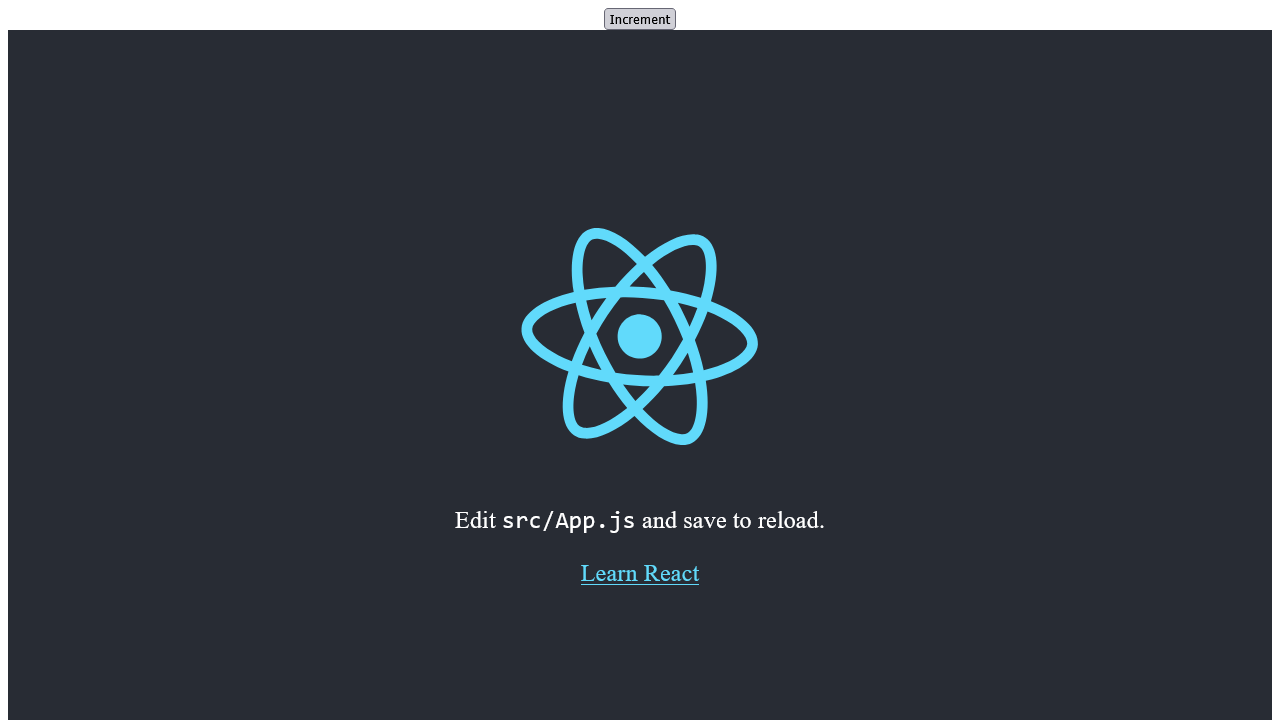
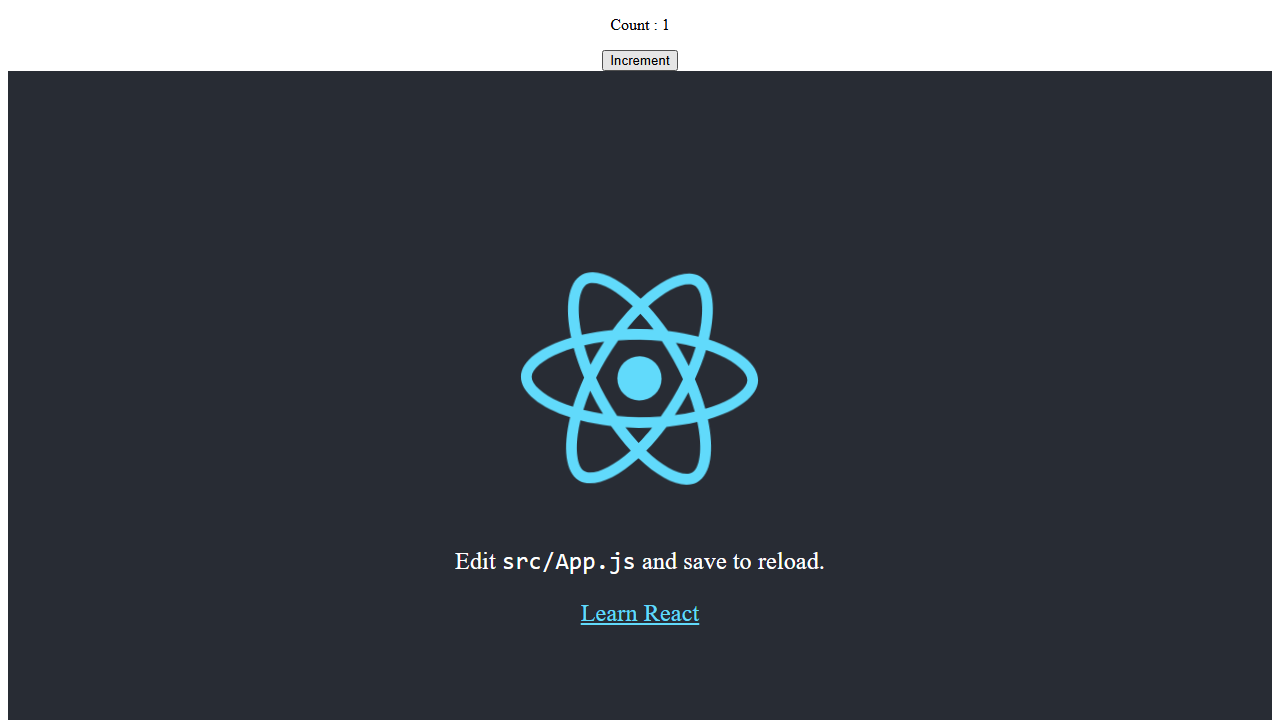
details about playwright

diff --git a/testing_demo/src/counter.js b/testing_demo/src/counter.js
@@ -4,8 +4,8 @@ export default function Counter() {
 
     return(
         <div>
-            <p  className="text-for-small-screen">Count :  <span   data-testid="count"> {count} </span></p>
-            <button onClick={() => setCount(count+1)}>Increment</button>
+            <p  className="text-for-small-screen">Count :  <span   data-testid="count">{count}</span></p>
+            <button data-testid="inc-btn"  onClick={() => setCount(count+1)}>Increment</button>
         </div>
     );
 }

diff --git a/testing_demo/src/App.css b/testing_demo/src/App.css
@@ -38,7 +38,7 @@
 }
 
 
-.text-for-small-screen {
+/* .text-for-small-screen {
   display: block;
 }
 
@@ -46,4 +46,4 @@
   .text-for-small-screen {
     display: none;
   }
-}
+} */

diff --git a/testing_demo/README.md b/testing_demo/README.md
@@ -1,3 +1,142 @@
+ (Playwright) :- (https://playwright.dev/docs/getting-started-vscode)) ([Playwright][1])
+
+---
+
+# 📘 Playwright & VS Code Extension — README
+
+## 🚀 What is **Playwright**?
+
+Playwright is a powerful open-source **end-to-end testing** framework created by **Microsoft**. It allows developers to automate browsers, write reliable tests, and run them across:
+
+* 🧪 Chromium (Chrome, Edge)
+* 🦊 Firefox
+* 🦁 WebKit (Safari)
+
+Playwright supports modern web testing features such as automatic waiting, network interception, multiple browser contexts, and cross-browser testing in a single unified API. It’s commonly used to write tests in **JavaScript/TypeScript**, but also supports **Python, C#, and Java**. ([Wikipedia][2])
+
+Playwright includes:
+
+* **@playwright/test** — a built-in test runner with rich test structure and assertions.
+* **CodeGen** — auto-generates tests by recording your actions.
+* **Trace Viewer** — visually debug and replay tests step-by-step.
+
+---
+
+## 💡 Why Use Playwright?
+
+✔ Tests run across multiple browsers with consistent APIs
+✔ Powerful debugging tools and trace viewer
+✔ You can generate tests automatically
+✔ Works with CI/CD workflows (GitHub Actions, etc.)
+✔ Built-in test runner with parallelism and retries
+
+---
+
+## 🛠 Playwright (**VS** Code Extension)
+
+The **Playwright Test for VS Code** extension lets you bring Playwright functionality *directly into Visual Studio Code*. ‹It enhances the developer experience by allowing you to run, debug, generate, and explore tests inside the editor.› ([Visual Studio Marketplace][3])
+
+### 📦 Key Features
+
+* ▶ **Run tests with a single click** — Green play icons next to each test. ([Visual Studio Marketplace][3])
+* 🔄 **Watch mode** — Re-runs tests on save. ([Visual Studio Marketplace][3])
+* 🐞 **Debugging** — Set breakpoints and step through tests in the IDE. ([Visual Studio Marketplace][3])
+* 🔍 **Trace Viewer integration** — Inspect execution timelines, DOM snapshots, and network events. ([Visual Studio Marketplace][3])
+* 🧪 **Project selection** — Run tests per browser or configuration. ([DEV Community][4])
+* ✍ **Test generation** — Record interactions and auto-generate test code. ([Playwright][5])
+* 📍 **Locator tools** — Pick and refine locators right from the editor. ([Visual Studio Marketplace][3])
+
+---
+
+## ✅ Prerequisites
+
+Before setting up Playwright and the extension:
+
+✔ Node.js (LTS recommended)
+✔ Visual Studio Code installed
+✔ Basic familiarity with JavaScript/TypeScript ([Playwright][1])
+
+---
+
+## 🧩 Installation & Setup
+
+### 1. Install the Playwright VS Code Extension
+
+1. Open **VS Code**
+2. Go to **Extensions** (`Ctrl+Shift+X`)
+3. Search for **Playwright Test**
+4. Install the official extension (Publisher: Microsoft) ([Playwright][6])
+
+### 2. Install Playwright in Your Project
+
+Inside your project folder run:
+
+```bash
+npm init playwright@latest
+```
+
+This will scaffold your Playwright setup and install necessary packages. Result:
+
+* `test` directory
+* `playwright.config.ts`
+* Sample tests ([Playwright][7])
+
+---
+
+## 🧪 Using the VS Code Extension
+
+### 📋 Testing Sidebar
+
+Open the **Testing** view in VS Code to explore:
+
+* Tests in your repository
+* Run icons
+* Test results with pass/fail statuses ([Playwright][1])
+
+### ▶ Running Tests
+
+* Click the **green triangle** next to a test.
+* Use the sidebar to run all tests.
+* You can also run in multiple browsers by selecting projects. ([Playwright][1])
+
+### 🐛 Debugging
+
+* Set breakpoints in test code.
+* Right-click → `Debug Test` in VS Code.
+* Use tools like Trace Viewer for deeper debugging. ([Playwright][1])
+
+---
+
+## 🔎 Auto-Generate Tests with CodeGen
+
+Playwright can automatically record browser actions and generate test code:
+
+1. Open the Testing sidebar.
+2. Click **Record new**.
+3. Interact with the browser.
+4. Playwright generates test code you can use in your test suite. ([Playwright][5])
+
+
+
+
+
+
+
+
+
+
+
+
+
+
+
+
+
+
+
+
+
+
 # Getting Started with Create React App
 
 This project was bootstrapped with [Create React App](https://github.com/facebook/create-react-app).
